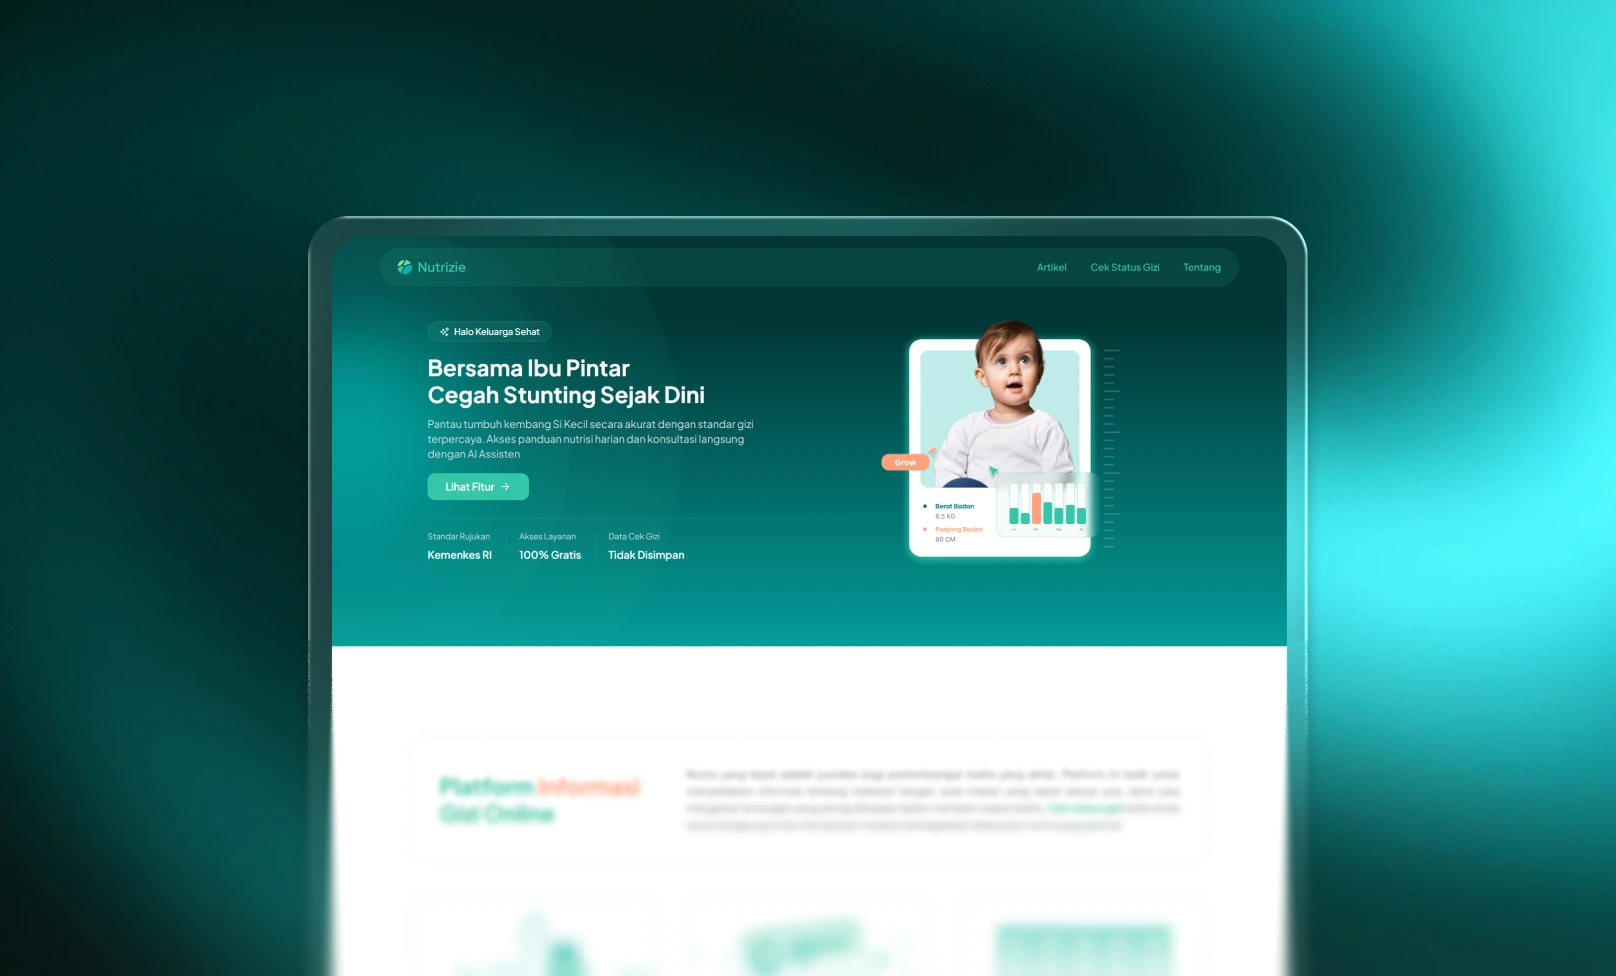
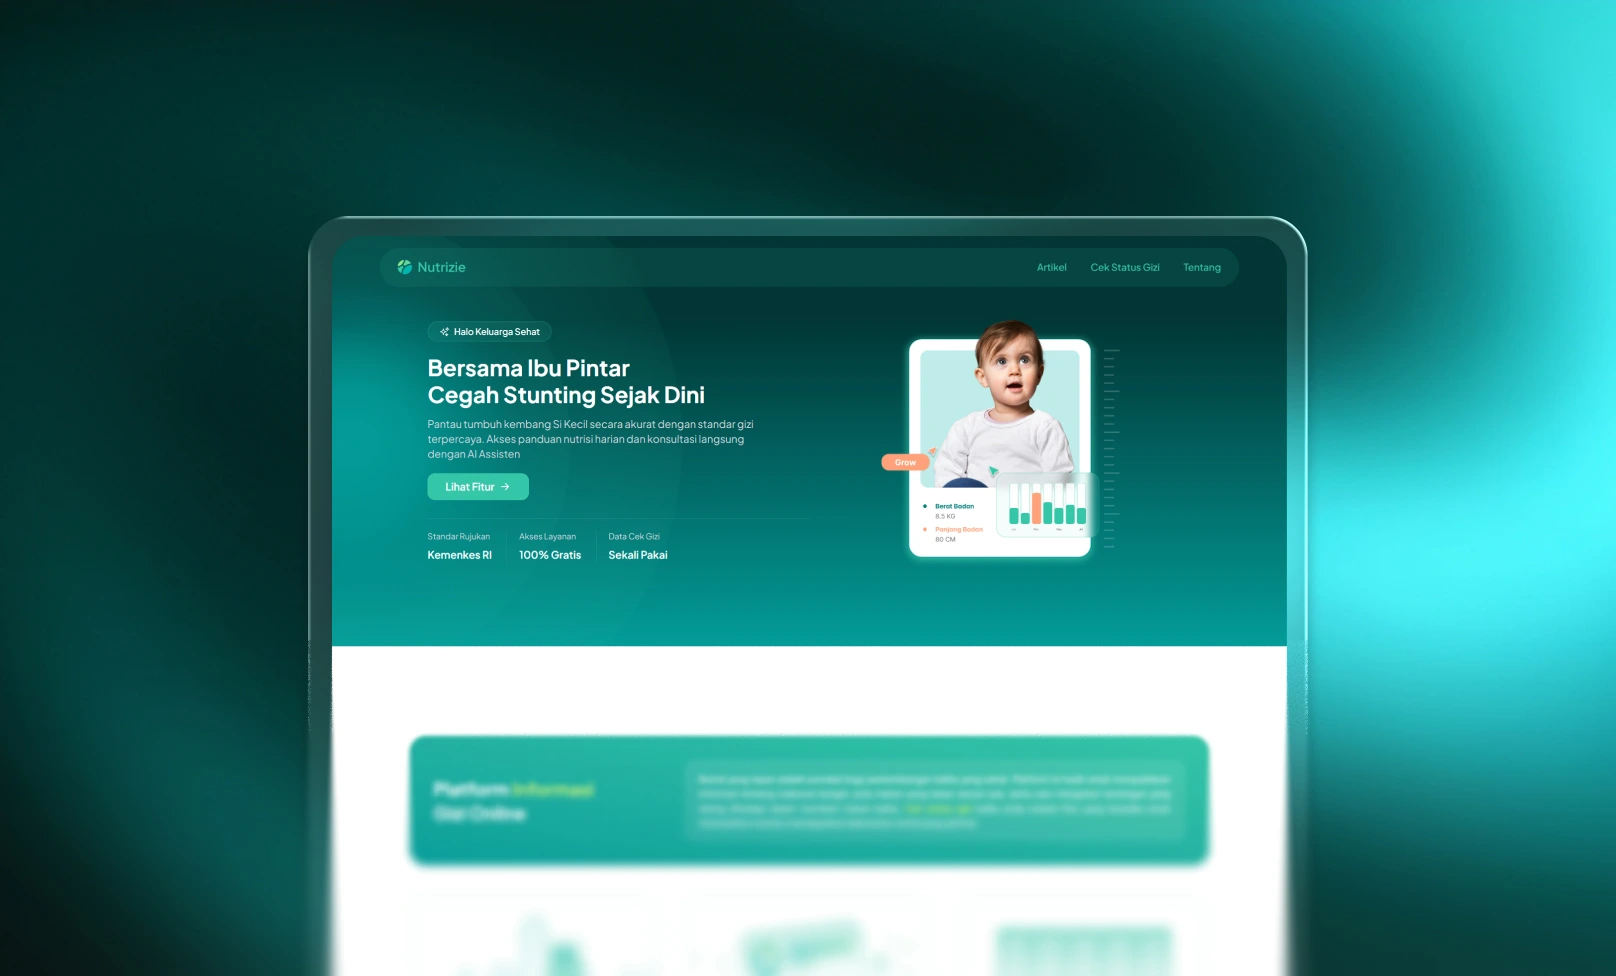
data: update nutrizie data

Changed region(s): [[0.2475, 0.7377, 0.7735, 0.8914], [0.3713, 0.5533, 0.4332, 0.584]]

diff --git a/src/data/showcase.js b/src/data/showcase.js
@@ -32,6 +32,7 @@ import Nutrizie2 from "../assets/nutrizie/nutrizie-car-2.webp"
 import Nutrizie3 from "../assets/nutrizie/nutrizie-car-3.webp"
 import Nutrizie4 from "../assets/nutrizie/nutrizie-car-4.webp"
 import Nutrizie5 from "../assets/nutrizie/nutrizie-car-5.webp"
+import Nutrizie6 from "../assets/nutrizie/nutrizie-car-6.webp"
 
 // Labhub
 import Labhub1 from "../assets/labhub/labhub-car-1.webp"
@@ -150,7 +151,8 @@ const showcase = [
             Nutrizie2,
             Nutrizie3,
             Nutrizie4,
-            Nutrizie5
+            Nutrizie5,
+            Nutrizie6
         ],
         description: {
             en: "Nutrizie is a website that contains nutritional information equipped with a toddler nutritional status calculation system using the z-score method according to standards. This website was created as an effort to reduce stunting in Indonesia through the dissemination of nutritional information and flexibility in checking the nutritional status of toddlers.",
